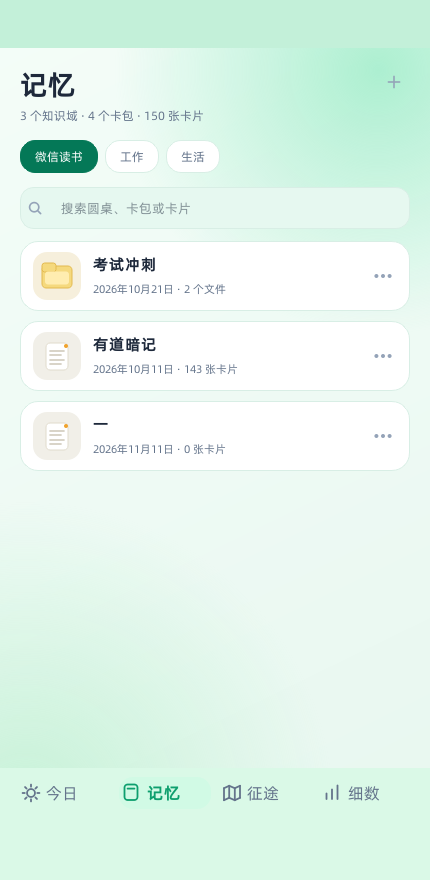
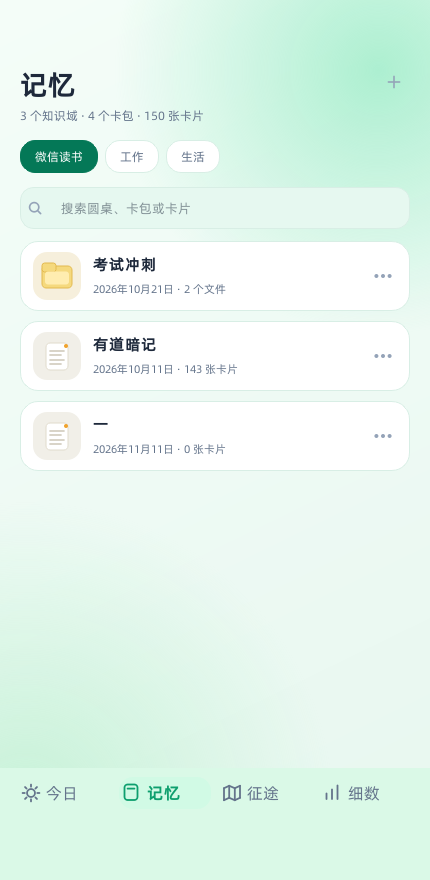
状态栏改用主题渐变（不铺纯色块）；底部手势条保持与底部导航同色

Changed region(s): [[0.0, 0.0, 0.514, 0.0614]]

diff --git a/app/app.py b/app/app.py
@@ -127,14 +127,12 @@ class BgLayer(QWidget):
         # 状态栏 / 手势条区域：用主题取色，跟 App 顶部 / 底部同色
         top = int(getattr(win, "_sys_top", 0) or 0)
         bottom = int(getattr(win, "_sys_bottom", 0) or 0)
-        if top > 0 or bottom > 0:
+        # 状态栏不铺纯色块：让上面的主题渐变直接透过去（与 App 背景同一渐变）；
+        # 底部手势条与底部导航同色，保持一整块。
+        if bottom > 0:
             info = theme.theme_info(tid)
-            if top > 0:
-                p.fillRect(0, 0, self.width(), top,
-                           QColor(info.get("bar_top", "#FFFFFF")))
-            if bottom > 0:
-                p.fillRect(0, self.height() - bottom, self.width(), bottom,
-                           QColor(info.get("bar_bottom", "#FFFFFF")))
+            p.fillRect(0, self.height() - bottom, self.width(), bottom,
+                       QColor(info.get("bar_bottom", "#FFFFFF")))
 
 
 class MainWindow(QMainWindow):

diff --git a/app/README.md b/app/README.md
@@ -103,7 +103,7 @@ python main.py
 
 主题只改页面渐变底色与界面配色（纸色/面板/线条/主色/语义色/阴影）；复习卡区（红框）仍用「卡片模板」页的 7 套皮肤（天蓝薰衣等），7 套卡片模板保持不变。选择存在 settings.theme；旧版本的 paper / mist / cream / ink / celadon / sunset / night / dusk 会回落到 anki-mint（薄荷）。
 
-安卓上状态栏取当前主题的 `bar_top`、底部手势条取 `bar_bottom`，底部导航条与手势条同色（薄荷：`#C3F0D9` / `#DAF9E7`），系统栏透明后由 App 自己的渐变/纯色条铺满。
+安卓上状态栏直接透出当前主题的渐变（与 App 背景同一渐变，不再铺纯色块）；底部手势条取 `bar_bottom`，底部导航条与手势条同色（薄荷：`#DAF9E7`），系统栏透明后由 App 自己绘制。
 
 ## 调度算法：FSRS-6（Anki 26 默认）
 
